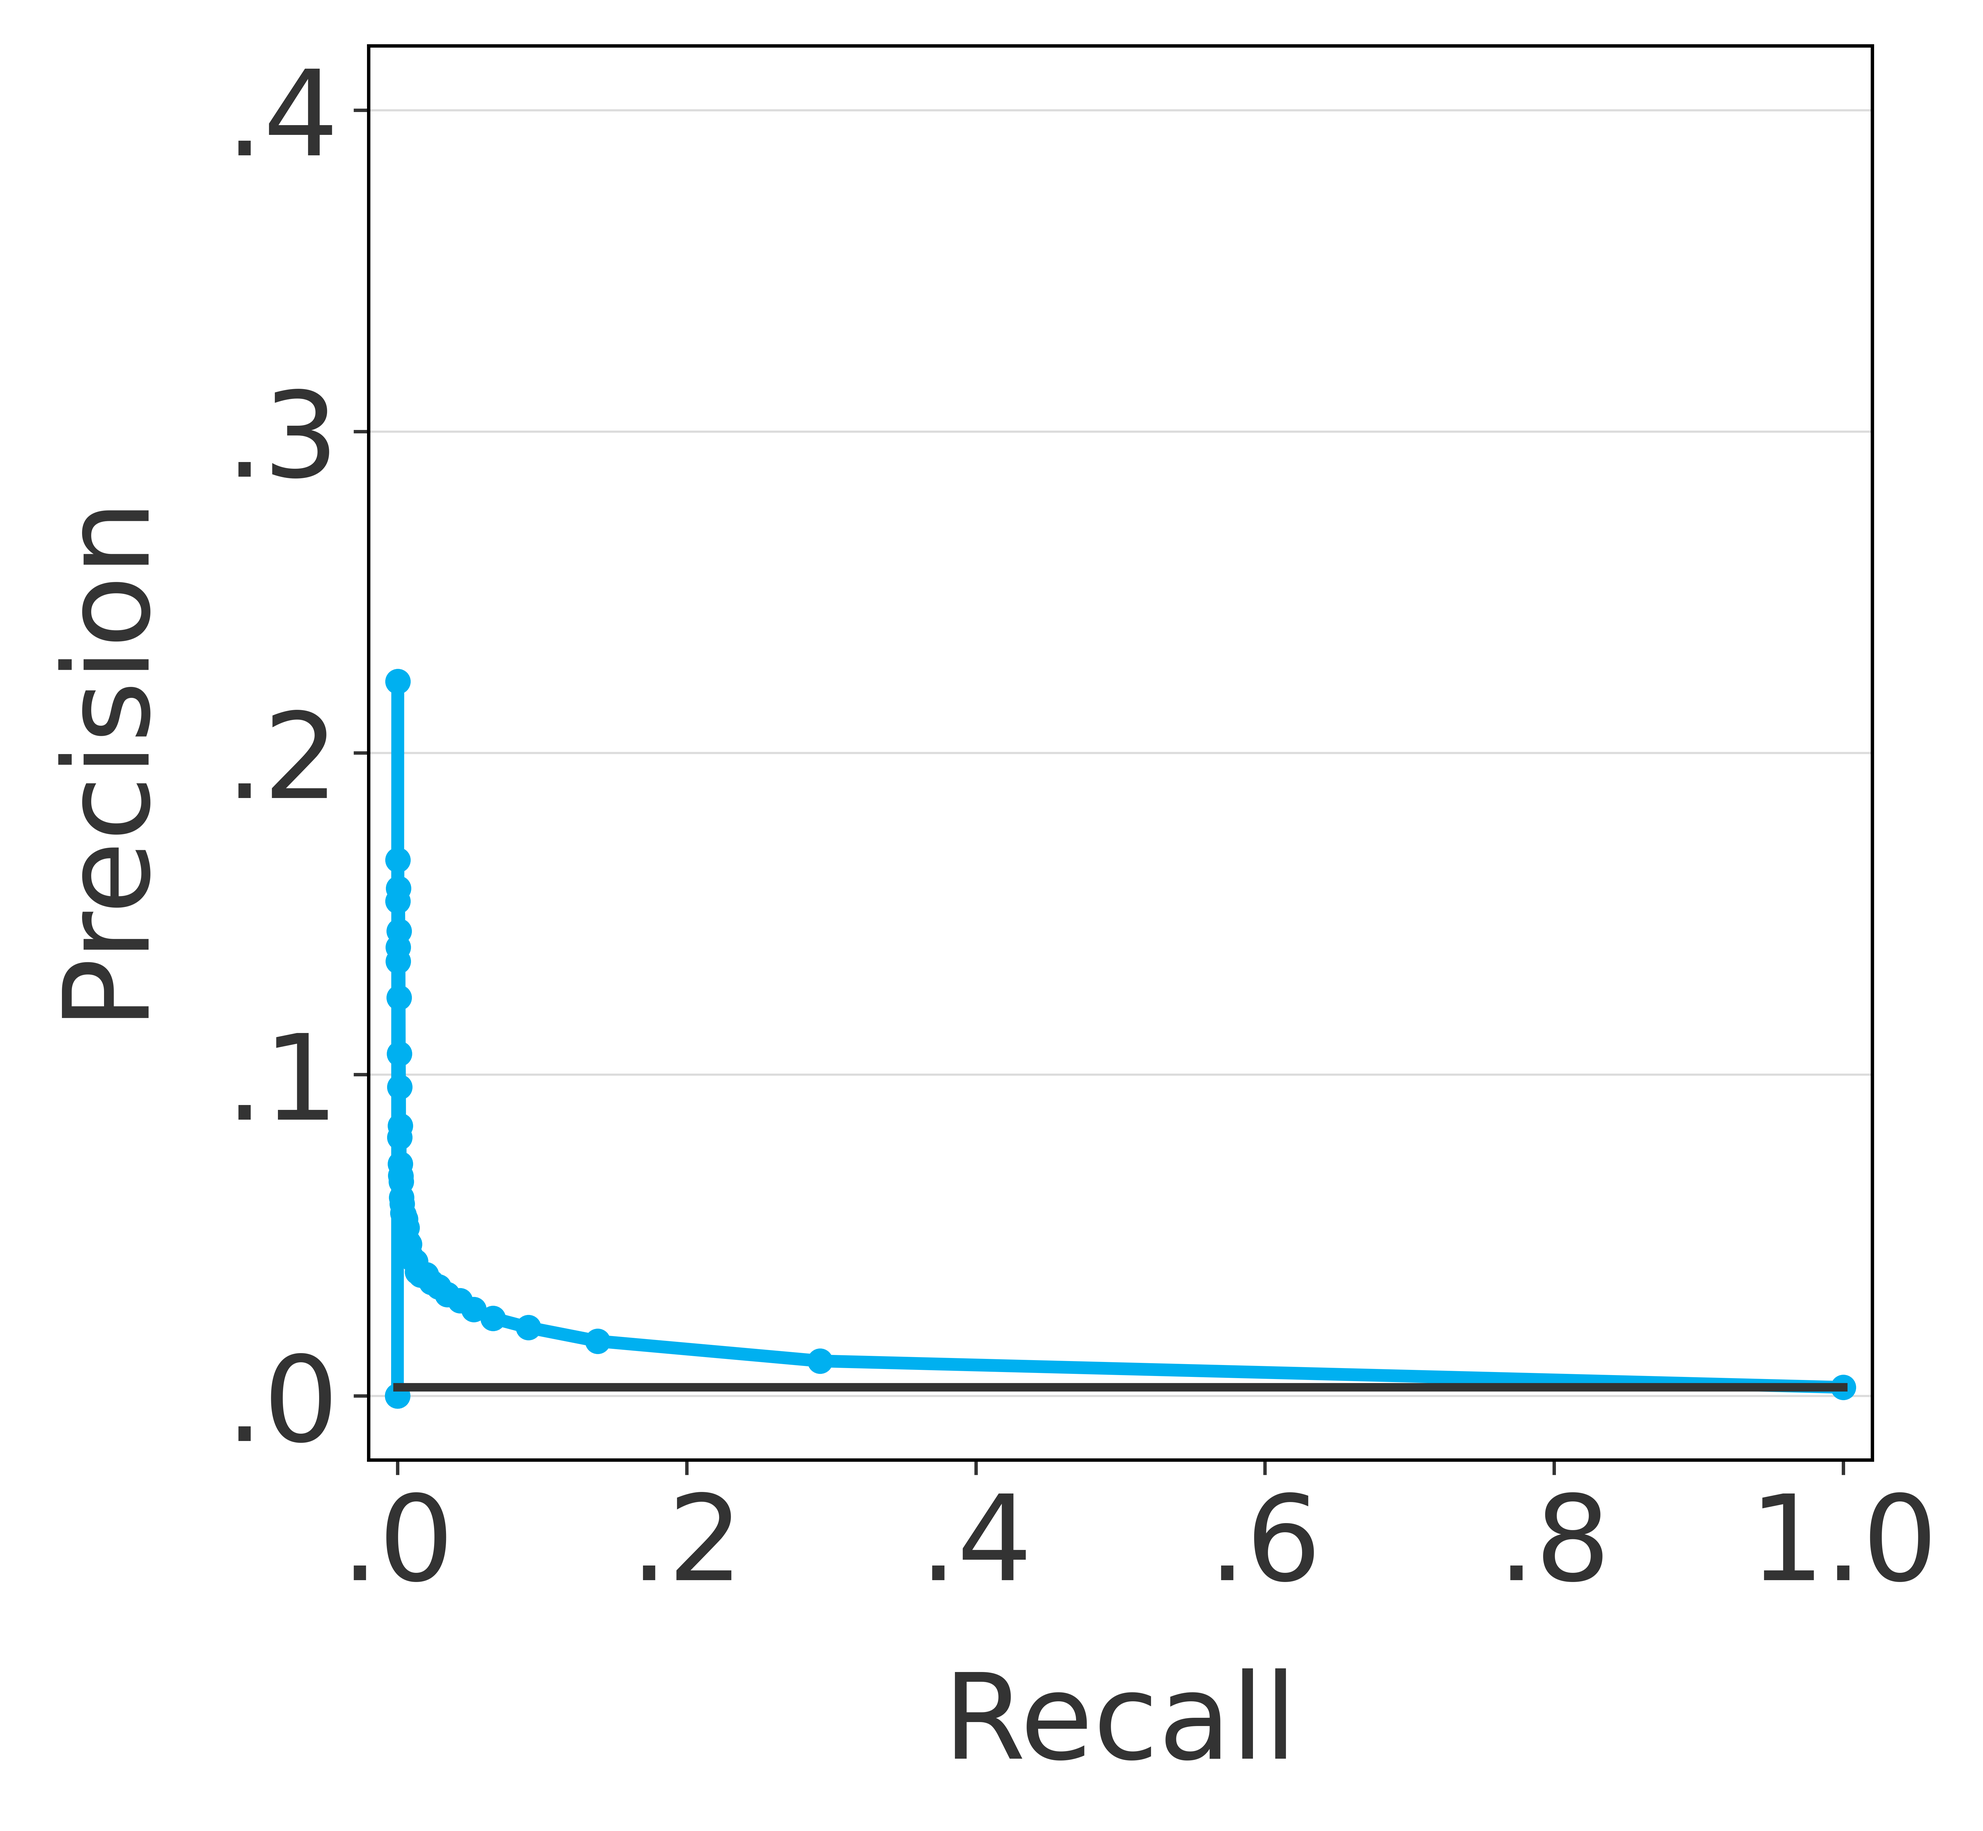
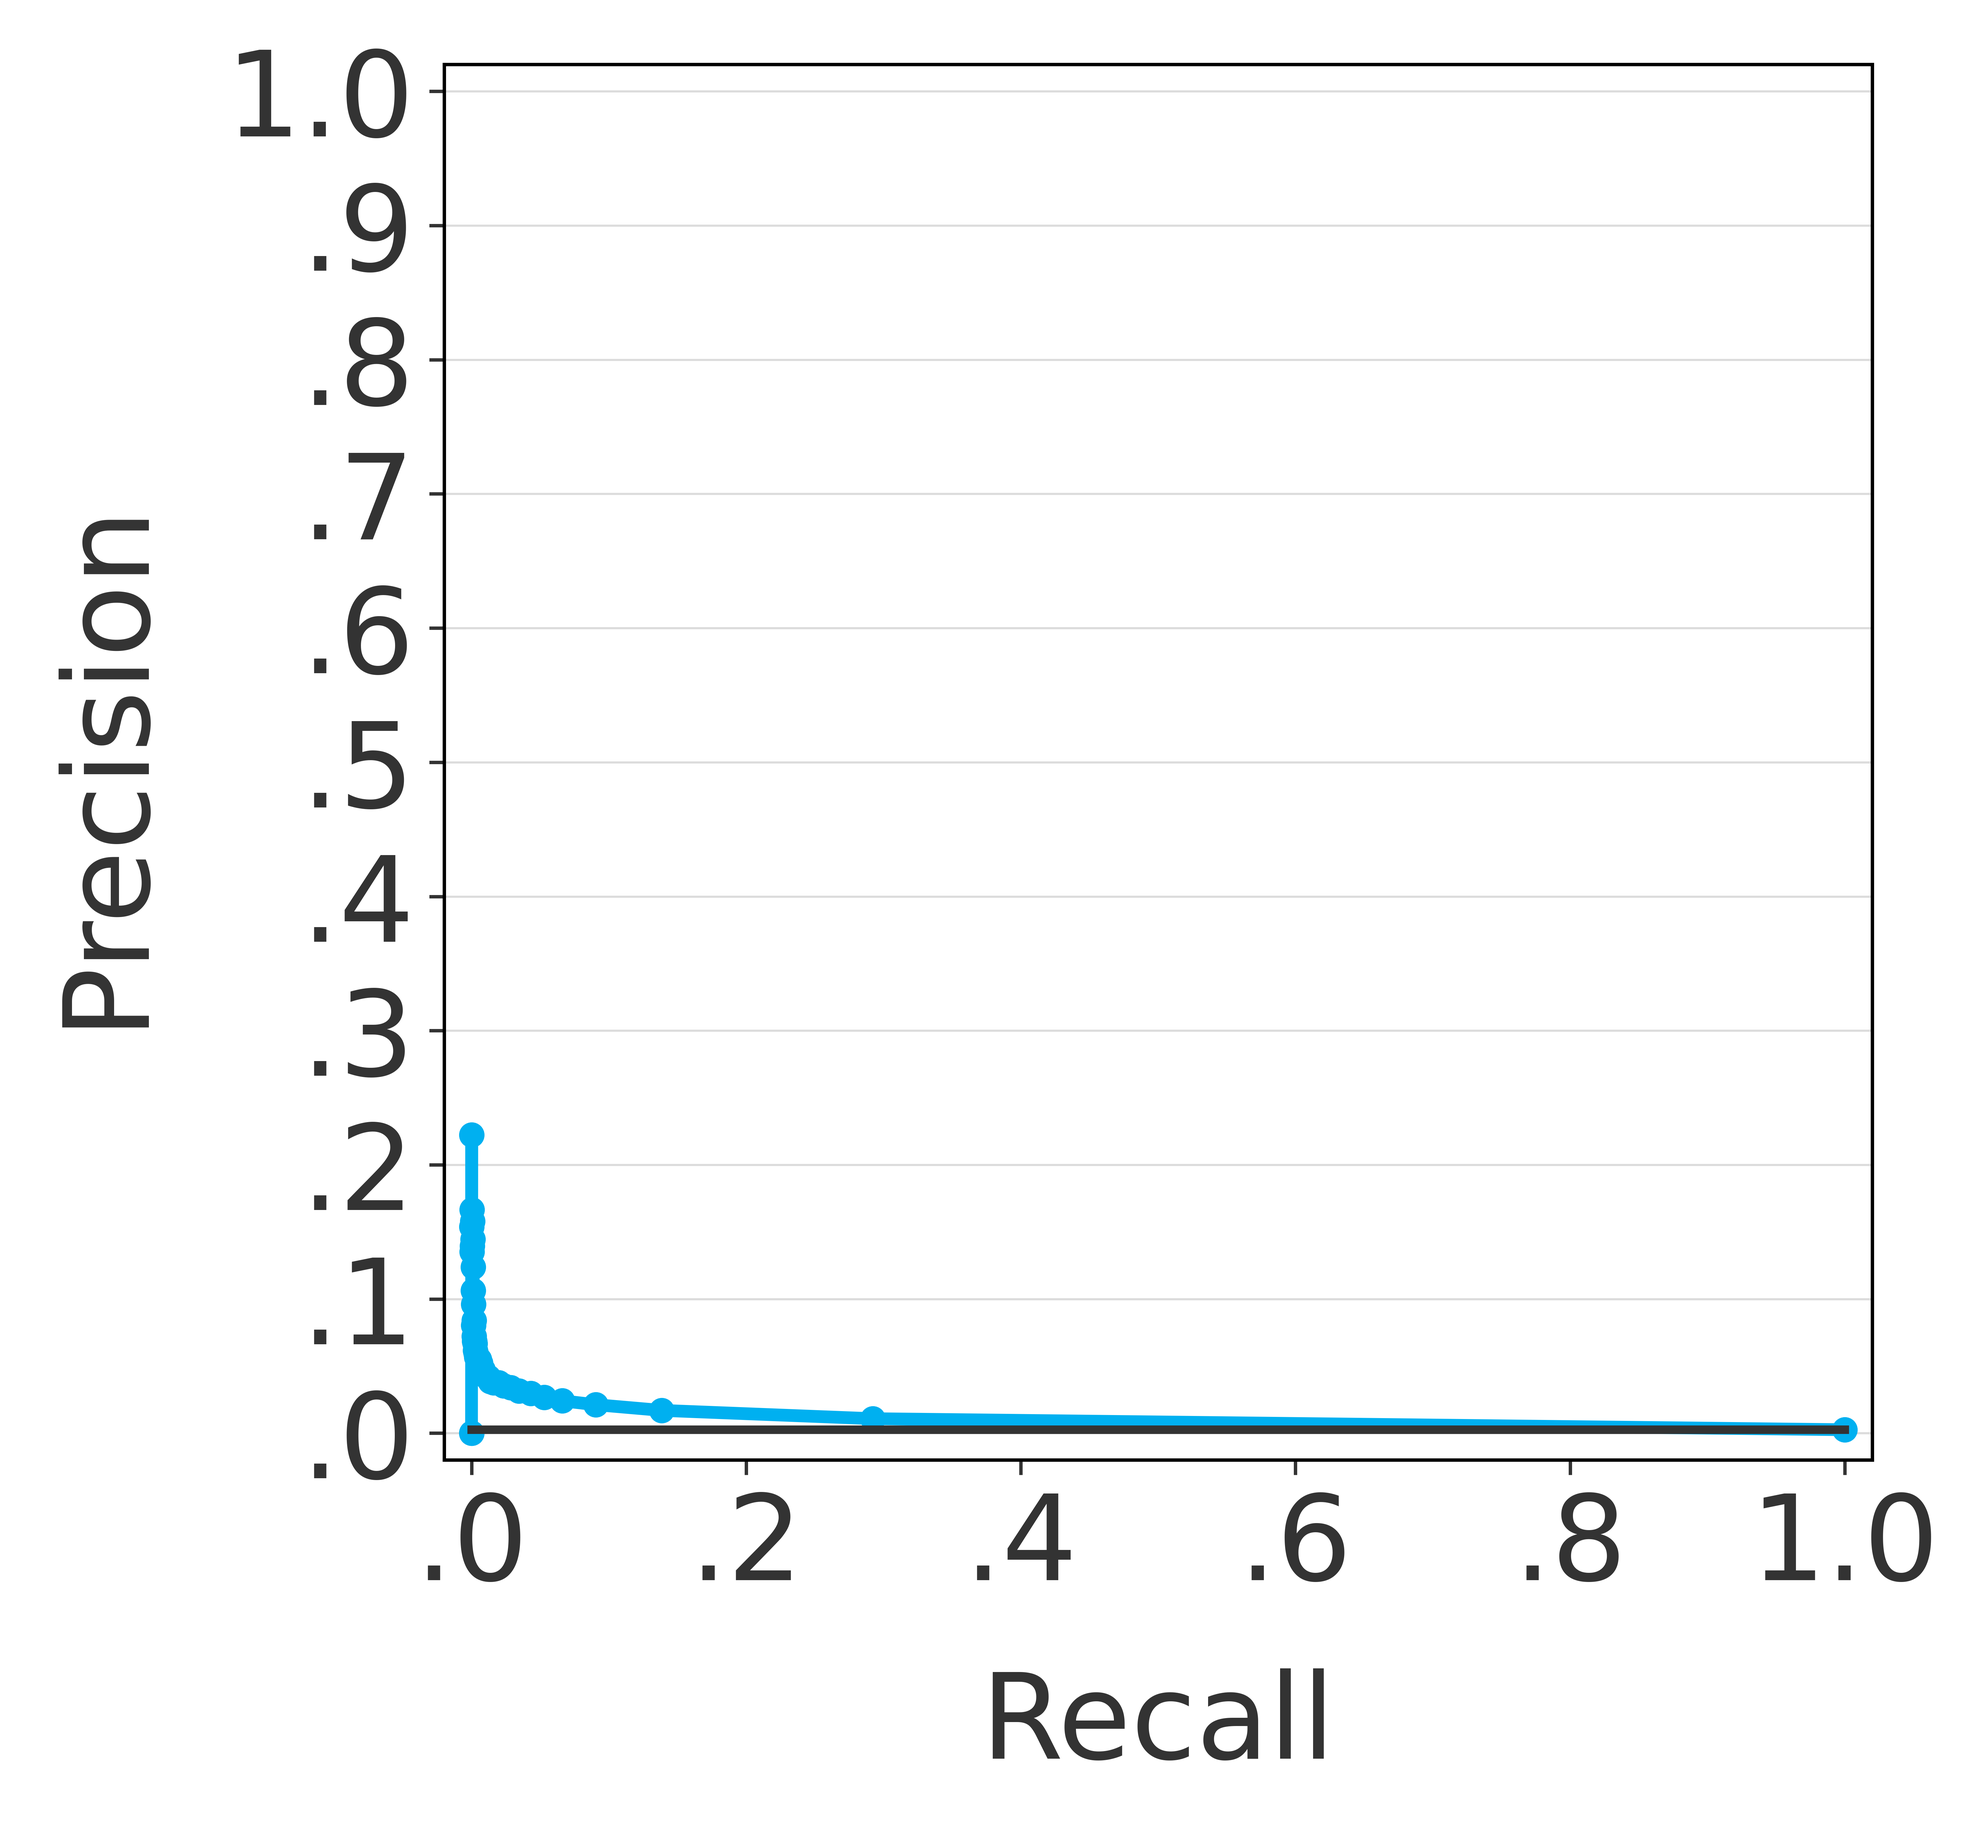
Added the plots for the training data.

Changed region(s): [[0.1249, 0.0, 0.9369, 0.8727], [0.0312, 0.2805, 0.0937, 0.561], [0.4685, 0.9038, 0.6871, 0.9662]]

diff --git a/code/plot/30_paper_verif_plots_long_fc.py b/code/plot/30_paper_verif_plots_long_fc.py
@@ -180,10 +180,10 @@ for model_name in model_name_list:
                         ax.xaxis.set_major_formatter(fmt)
                         ax.yaxis.set_major_formatter(fmt)
                         plt.xticks(np.arange(0, 1.01, 0.2))
-                        plt.yticks(np.arange(0, 0.41, 0.1))
+                        plt.yticks(np.arange(0, 1.01, 0.1))
                         plt.grid(axis='y', linewidth=0.5, color='gainsboro')
                         plt.xlim([-0.02,1.02])
-                        plt.ylim([-0.02,0.42])
+                        plt.ylim([-0.02,1.02])
                         plt.tight_layout()
                         plt.savefig(f'{dir_out_temp}/pr_curve_{step_f}.png', dpi=1000)
                         plt.close()
